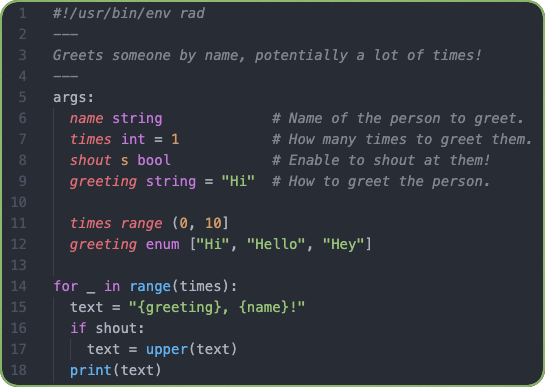
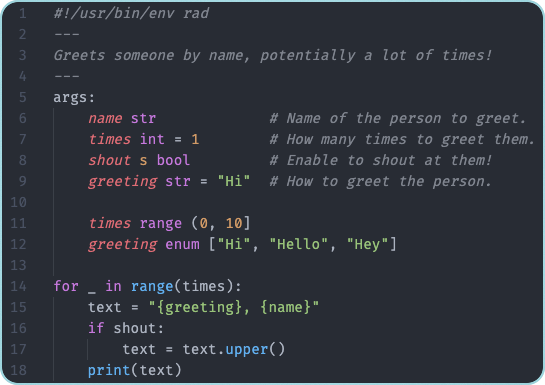
docs: rewrite README
Rad is getting better, and I think we can be a bit stronger in our
messaging, while tightening up the language.

diff --git a/README.md b/README.md
@@ -1,37 +1,29 @@
 # 🤙 Rad
 
-**A lightweight, modern CLI scripting language that's familiar, clean, and readable.**
+[![Latest Release](https://img.shields.io/github/v/release/amterp/rad?color=blue)](https://github.com/amterp/rad/releases)
+[![Docs](https://img.shields.io/badge/-Docs-grey)](https://amterp.github.io/rad/)
+[![Go Report Card](https://goreportcard.com/badge/github.com/amterp/rad)](https://goreportcard.com/report/github.com/amterp/rad)
+[![License: MIT](https://img.shields.io/badge/License-MIT-yellow.svg)](https://opensource.org/licenses/MIT)
 
-Effortlessly write high-quality scripts without the quirks of Bash.
-Rad makes command-line scripting simple and intuitive — whether automating tasks, processing text, or interacting with systems and APIs.
-
-Example script (`greet`):
-
-```
-#!/usr/bin/env rad
 ---
-Greets someone by name, potentially a lot of times!
----
-args:
-  name str                # Name of the person to greet.
-  times int = 1           # How many times to greet them.
-  shout s bool            # Enable to shout at them!
-  greeting str    = "Hi"  # How to greet the person.
-  
-  times range (0, 10]
-  greeting enum ["Hi", "Hello", "Hey"]
 
-for _ in range(times):
-  text = "{greeting}, {name}!"
-  if shout:
-    text = upper(text)
-  print(text)
-```
+**Bash is powerful but painful. Rad gives you Python-like scripting with CLI superpowers built-in.**
 
-Generated help string:
+Write maintainable scripts with declarative argument parsing, built-in JSON processing, HTTP requests, and interactive
+user prompts - all in a familiar, readable syntax.
 
-```
-> ./greet -h
+## The Problem with Bash
+
+![bash-example.png](./assets/bash-example.png)
+
+**What you actually want:**
+
+![vsc-example.png](./assets/vsc-example.png)
+
+**You get this for free:**
+
+```shell
+> ./greet --help
 Greets someone by name, potentially a lot of times!
 
 Usage:
@@ -44,126 +36,32 @@ Script args:
       --greeting str      How to greet the person. Valid values: [Hi, Hello, Hey]. (default Hi)
 ```
 
-Example invocation:
-
-```
+```shell
 > ./greet bob 3 -s
 HI, BOB!
 HI, BOB!
 HI, BOB!
 ```
 
-## Installation
+## Why Rad?
 
-### macOS (Homebrew)
+- **CLI-first design** → Args, validation, and `--help` are part of the language
+- **Familiar syntax** → Python-like, readable, no Bash footguns
+- **Declarative arguments** → Automatic `--help`, type checking, validation, and parsing
+- **JSON made easy** → Simple paths for extraction and tabular output
+- **HTTP built-in** → Query APIs, process results, and render tables in a few lines
+- **Interactive prompts** → `pick()`, `input()`, etc, for user input & selection menus
+- **Shell when you want it** → Run commands and capture output
 
-```shell
-brew install amterp/rad/rad
-```
+## Real-World Example: API to Table
 
-### Go (from source, all platforms)
+Fetch and display GitHub commits in one, minimal script:
 
-```shell
-go install github.com/amterp/rad@latest
-```
-
-Installs directly from source using the Go (v1.17+) toolchain into your Go bin directory. Make sure that it's on your PATH.
-
-**Note:** You will need to run `go install` yourself to upgrade Rad as new versions are released.
-For automated updates, install via one of the package managers that support it.
-
-### Binary Downloads (all platforms)
-
-Pre-built binaries are available for macOS, Linux, and Windows on the [releases page](https://github.com/amterp/rad/releases).
-
-Download the appropriate binary for your platform:
-
-- **macOS**: `rad_darwin_arm64.tar.gz` (Apple Silicon) or `rad_darwin_amd64.tar.gz` (Intel)
-- **Linux**: `rad_linux_arm64.tar.gz` or `rad_linux_amd64.tar.gz`
-- **Windows**: `rad_windows_amd64.zip`
-
-Extract the binary and add it to your PATH.
-
-### From Source
-
-See [here](./CONTRIBUTING.md#setup) for instructions on how to build from source.
-
-### Visual Studio Code Extension
-
-The VS Code extension for Rad can be found [here](https://marketplace.visualstudio.com/items?itemName=amterp.rad-extension). Source [here](./vsc-extension).
-
-It provides syntax highlighting and integrates with the Rad language server for error detection. 
-
-The language server is currently only available on macOS & Linux. Source [here](lsp-server).
-
-![vsc-example.png](./assets/vsc-example.png)
-
-## [Documentation](https://amterp.github.io/rad/)
-
-Docs are still a work in progress, but there's enough to get you started!
-
-Feel free to check out the [**Getting Started**](https://amterp.github.io/rad/guide/getting-started/) guide :)
-
-## Status 📊
-
-⚠ **Rad is still in early development!** ⚠
-
-Rad is a working CLI tool and interpreter that can run useful Rad scripts.
-
-It's complete enough to be useful, but do expect the following:
-
-- Major, potentially script-breaking changes
-- Rough edges
-- Bugs
-- Missing features
-
-That said, please do give it a try, I'd love to hear your experience and any feedback :)
-
-### What's being worked on 🚧
-
-- Language features (there's a long list!)
-- LSP language server ([RLS](lsp-server))
-
-### What's planned 🌱 
-
-- Many more language features
-- Polished syntax error feedback
-- `rad` script management features & helpers
-- JetBrains IDE plugin
-- Support for platforms other than macOS: Linux, Windows. 
-
-## About
-
-### What problem does Rad solve? 🎯
-
-Shell languages like Bash are powerful, but often difficult to use.
-Bash has unusual syntax for simple things like if statements that makes them hard to remember, and common patterns like
-argument parsing can be tedious to implement.
-Basic data structures like lists, maps, and even strings can be difficult to deal with, if they're available at all.
-
-What's needed is a higher-level language, bells and whistles included, that's tailored to writing scripts.
-Knowing what's commonly needed in scripts, it needs to make implementing these things as easy as possible,
-and provide all the necessary utilities out of the box.
-
-### How does Rad solve it? 🛠
-
-Rad is a language and interpreter, purpose-built for this exact problem.
-
-- Rad is **familiar**, drawing on popular languages like Python.
-- Rad **knows its domain** - it has unique syntax which makes writing scripts as easy as possible, such as its declarative approach to script args.
-- Rad has **batteries included** - it aims to offer everything you need in a single installation that lets you write the scripts you want.
-
-### Example: Printing a table of a repo's commits
-
-An example for a type of script that Rad makes very easy to write, is one which queries a JSON API, 
-extracts some fields, and prints the results in a table.
-
-Let's see a concrete example script (`commits`):
-
-```
+```rad
+#!/usr/bin/env rad
 args:
-    repo str       # The repo to query. Format: user/project
-    limit int = 20 # The max commits to return.
+    repo str        # The repo to query. Format: user/project
+    limit int = 20  # Max commits to return
 
 url = "https://api.github.com/repos/{repo}/commits?per_page={limit}"
 
@@ -175,10 +73,10 @@ rad url:
     fields Time, Author, SHA
 ```
 
-Example invocation:
+Put this `commits` script on your PATH, and invoke:
 
-```
-> rad commits spf13/cobra 3
+```shell
+> commits spf13/cobra 3
 Querying url: https://api.github.com/repos/spf13/cobra/commits?per_page=3
 Time                  Author          SHA
 2025-03-07T14:53:22Z  styee           4f9ef8cdbbc88c5302be95e0e67fd78ebbfa9dd2
@@ -186,14 +84,19 @@ Time                  Author          SHA
 2025-02-17T19:16:17Z  Yedaya Katsman  f98cf4216d3cb5235e6e0cd00ee00959deb1dc65
 ```
 
-1. This script takes two args: a repo string and an optional limit (defaults to 20).
-    - The `#` comments are read by Rad and used to generate helpful docs / usage strings for the script.
-2. It uses string interpolation to resolve the url we will query, based on the supplied args.
-3. It defines the fields to extract from the JSON response.
-4. It executes the query, extracting the specified fields, and displays the resulting data as a table.
-    - Note the `rad url` syntax: "rad" actually stands for "request and display", which is what this built-in syntax does.
+No `curl | jq | awk` gymnastics. No argparse boilerplate. Just readable code that does what you want.
 
-We keep this example somewhat minimal - there are Rad features we could use to improve this, but it's kept simple here.
+Explaining the above script:
+
+1. The script takes two args: a repo string and an optional limit (defaults to 20).
+    - The `#` comments are read by Rad and used to generate helpful docs / usage strings for the script.
+2. It uses string interpolation to build the url we will query, based on the supplied args.
+3. It defines the fields to extract from the JSON response.
+4. It executes the query, extracting the specified fields from the response, and displays the resulting data as a table.
+    - Note the `rad url` syntax: "rad" actually stands for "request and display", which is what this built-in syntax
+      does.
+
+This example is kept somewhat minimal - there are Rad features we could use to further improve this.
 
 Some alternative valid invocations for this example:
 
@@ -202,33 +105,94 @@ Some alternative valid invocations for this example:
 - `rad commits --limit 5 --repo amterp/rad`
 - `rad commits amterp/rad --limit 5`
 
-### Alternatives 📚
+## Quick Comparison
 
-- **Bash**
-  - Bash is great, especially for simple scripts that only need to invoke a series of system commands.
-  - That said, as soon as you need to do anything more complex, Bash's syntax quickly becomes cumbersome and unproductive.
-    - Crucially, arg parsing in Bash is good for simple cases, but for anything more complex, it quickly gets unwieldy.
-  - Rad addresses these problems directly, while also being a great choice for simple scripts.
-- **Python, Ruby, JavaScript, Rust, Go, etc**
-  - These are general-purpose languages and very flexible, which can be great.
-  - However, if your goal is just to write scripts, then they're not as focused as Rad.
-    - They require boilerplate, maybe additional installations (modules, libraries), perhaps compilation, etc.
-  - Rad will generally require less code to achieve great scripts that do what you want.
+| Feature                | Bash                      | Python                        | Rad                               |
+|------------------------|---------------------------|-------------------------------|-----------------------------------|
+| Syntax familiarity     | Archaic, hard to remember | Familiar                      | Familiar (Python-like)            |
+| Argument parsing       | Verbose, manual           | argparse or libraries         | Built-in; declarative             |
+| Type checking          | None                      | Manual or library             | Built-in                          |
+| --help generation      | Manual                    | Dependencies handle it        | Built in; automatic from comments |
+| Validation/constraints | Manual                    | Manual or library schemas     | Built-in (range, enum, regex)     |
+| JSON processing        | Pipe to jq                | JSON module + manual handling | Built-in path syntax              |
+| String interpolation   | `"${var}"` (pitfalls)     | f-strings                     | `"{var}"`                         |
+| HTTP requests          | curl + pipes              | Import requests               | Built-in; first-class support     |
+| Dependencies           | None, but limited         | Likely need libraries         | None - batteries included         |
+| Lines of code          | Many                      | Moderate                      | Minimal                           |
 
-### Why Rad? 🚀
+**Python note:** Libraries like `typer` and `click` make CLI tools easier, but Rad goes further.
+CLI is **designed into the language syntax itself**, allowing us to do things and achieve ergonomics
+that Python libraries simply can't. Plus, no dependency management needed.
 
-- Rad is **tailored to writing scripts**. You can write better scripts, in fewer lines of code.
-- Rad is familiar, with a low learning curve. It's **simple and easy to pick up**.
-- Rad offers inbuilt syntax that guides you towards writing **user-friendly scripts**, with helpful usage strings (available with `--help`).
-- **Shell integration** - Rad offers built-in syntax for invoking shell commands, so you can still reach for Bash when needed.
+## Installation
 
-### Why *not* Rad? ⚠
+### macOS (Homebrew)
 
-Rad is **optimized for the majority of scripts**, but for extremely complex cases, a general-purpose language **may be more appropriate**.
+```bash
+brew install amterp/rad/rad
+```
 
-When should you reach for something else?
-- If your script **outgrows Rad** and becomes a full application.
-- If you need **high-performance computation**, beyond typical scripting needs.
-- If your script requires **specialized libraries** that aren't built into Rad.
+### Go (from source, all platforms)
 
-That said, **Rad aims to handle 99% of CLI scripting needs** - so most of the time, it's the right tool for the job.
+```bash
+go install github.com/amterp/rad@latest
+```
+
+### Binary Downloads
+
+Pre-built binaries for macOS, Linux, and Windows: [releases page](https://github.com/amterp/rad/releases)
+
+- **macOS**: `rad_darwin_arm64.tar.gz` (Apple Silicon) or `rad_darwin_amd64.tar.gz` (Intel)
+- **Linux**: `rad_linux_arm64.tar.gz` or `rad_linux_amd64.tar.gz`
+- **Windows**: `rad_windows_amd64.zip`
+
+### Visual Studio Code Extension
+
+[VS Code Extension](https://marketplace.visualstudio.com/items?itemName=amterp.rad-extension) provides syntax
+highlighting and LSP integration (macOS/Linux).
+
+## Documentation
+
+[**Getting Started Guide**](https://amterp.github.io/rad/guide/getting-started/) | [Full Documentation](https://amterp.github.io/rad/)
+
+## Project Status
+
+**Rad is in early development** but useful today for real scripts.
+
+**What this means:**
+
+- ✅ Core features work well
+- ✅ Actively maintained and improving
+- ⚠ Breaking changes between versions
+- ⚠ Rough edges and missing features
+
+**The upside:** Your feedback directly shapes the language. Feature requests and bug reports are not just
+welcomed - they're invaluable!
+
+Give it a try and [let me know what you think](https://github.com/amterp/rad/discussions)!
+
+## Why *not* Rad?
+
+Rad is optimized for CLI scripting, so if you find yourself building any of the following, a general-purpose language (
+Python/Go/Rust, etc) may be more appropriate:
+
+- Enterprise applications
+- High-performance computations
+- Projects requiring specialized libraries
+
+## Why I Built This
+
+I love Bash for quick scripts. But every time I need to parse arguments properly, validate input, or work with JSON, I
+end up writing the same painful boilerplate.
+
+Python is great, but for a simple CLI tool, you shouldn't need argparse, dependencies, and subprocess.run() before you
+even start solving your actual problem.
+
+Rad is the language I wish existed when I started writing scripts. It takes the best parts of modern languages and adds
+purpose-built features for CLI scripting.
+
+---
+
+**Try Rad for your next script. I think you'll like it.** 🤙
+
+[Installation](#installation) | [Docs](https://amterp.github.io/rad/) | [Contributing](./CONTRIBUTING.md)

diff --git a/docs-web/docs/index.md b/docs-web/docs/index.md
@@ -14,4 +14,6 @@ See 'Reference' in the side panel.
 
     These docs are actively being worked on, and there are critical sections missing.
 
+    Rad is also evolving, and so some docs here may be out of date. If you have any questions at all, don't hesitate to ask on [Discussions](https://github.com/amterp/rad/discussions)!
+
     The [Guide](./guide/getting-started.md) is pretty substantial and gives you quite a lot to go on, feel free to check it out!
